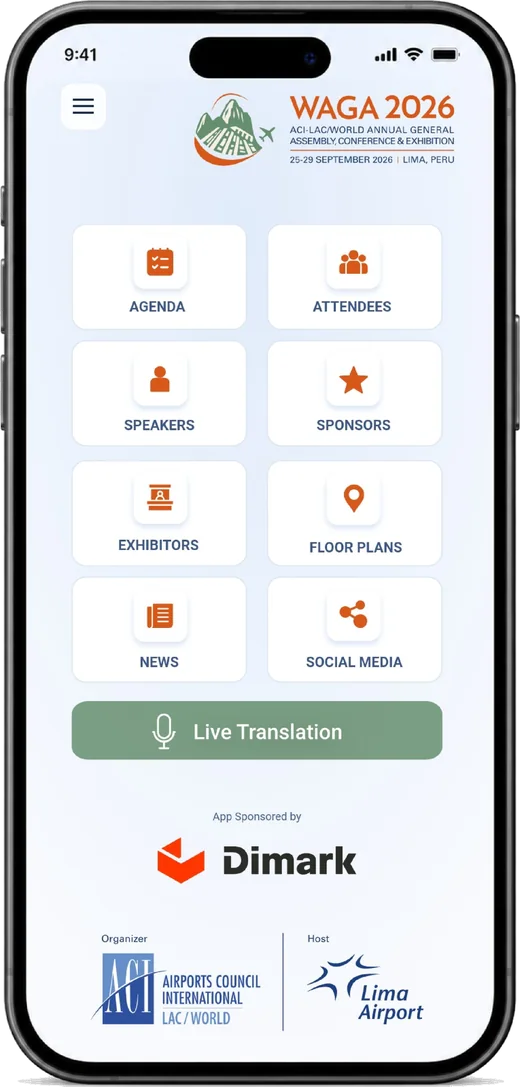
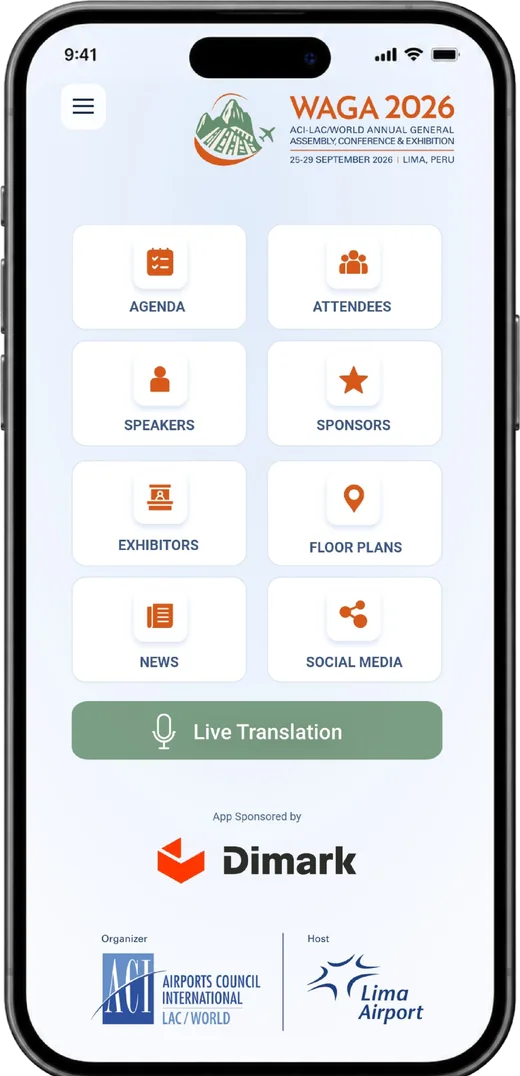
Celulares de Tech: se recorta la franja de sombra/reflejo del original en la base (optimize_images: cutbottom); proporción 520x1076 en HTML y CSS

diff --git a/mockup/es/tech-solutions.html b/mockup/es/tech-solutions.html
@@ -237,8 +237,8 @@
             <div class="showcase__bar"></div>
             <img src="../../assets/img/svc-web-alta.webp" width="720" height="962" alt="" loading="lazy" decoding="async">
           </div>
-          <span class="svc-phone showcase__phone showcase__phone--a" data-depth="0.7"><i class="svc-phone__screen"><img src="../../assets/img/svc-app-alta-home.webp" width="360" height="780" alt="" loading="lazy" decoding="async"></i><img class="svc-phone__frame" src="../../assets/img/svc-phone-frame.webp" width="520" height="1087" alt="" loading="lazy" decoding="async"></span>
-          <span class="svc-phone showcase__phone showcase__phone--b" data-depth="1"><img class="svc-phone__frame" src="../../assets/img/svc-app-waga.webp" width="520" height="1087" alt="" loading="lazy" decoding="async"></span>
+          <span class="svc-phone showcase__phone showcase__phone--a" data-depth="0.7"><i class="svc-phone__screen"><img src="../../assets/img/svc-app-alta-home.webp" width="360" height="780" alt="" loading="lazy" decoding="async"></i><img class="svc-phone__frame" src="../../assets/img/svc-phone-frame.webp" width="520" height="1076" alt="" loading="lazy" decoding="async"></span>
+          <span class="svc-phone showcase__phone showcase__phone--b" data-depth="1"><img class="svc-phone__frame" src="../../assets/img/svc-app-waga.webp" width="520" height="1076" alt="" loading="lazy" decoding="async"></span>
           <div class="showcase__chip" data-depth="1.4"><img src="../../assets/img/ibot-icon-clear.webp" width="300" height="300" alt="" loading="lazy" decoding="async"><span>¡Hola! ¿En qué te ayudo?</span></div>
         </div>
         <div class="showcase__foot reveal" data-d="2">
@@ -260,7 +260,7 @@
         </div>
         <div class="svc-cards">
           <article class="svc-card svc-card--bots reveal"><div class="svc-card__bg" aria-hidden="true"></div><img class="svc-card__mascot" src="../../assets/img/ibot-icon-clear.webp" width="300" height="300" alt="" loading="lazy" decoding="async"><h3>Bots y automatización</h3><div class="svc-card__body"><p>Asistentes que responden, califican y derivan, y automatizaciones que eliminan trabajo repetitivo.</p><ul class="svc-card__tags"><li>WhatsApp</li><li>Chat web</li><li>Derivación</li><li>Zapier</li></ul></div></article>
-          <article class="svc-card svc-card--apps reveal"><div class="svc-card__bg svc-phones" aria-hidden="true"><div class="svc-phones__stack"><span class="svc-phone svc-phone--1"><i class="svc-phone__screen"><img src="../../assets/img/svc-app-alta-home.webp" width="360" height="780" alt="" loading="lazy" decoding="async"></i><img class="svc-phone__frame" src="../../assets/img/svc-phone-frame.webp" width="520" height="1087" alt="" loading="lazy" decoding="async"></span><span class="svc-phone svc-phone--2"><i class="svc-phone__screen"><img src="../../assets/img/svc-app-alta-agenda.webp" width="360" height="780" alt="" loading="lazy" decoding="async"></i><img class="svc-phone__frame" src="../../assets/img/svc-phone-frame.webp" width="520" height="1087" alt="" loading="lazy" decoding="async"></span><span class="svc-phone svc-phone--3"><img class="svc-phone__frame" src="../../assets/img/svc-app-waga.webp" width="520" height="1087" alt="" loading="lazy" decoding="async"></span></div></div><h3>Apps de negocio</h3><div class="svc-card__body"><p>Apps a medida y herramientas internas construidas alrededor de cómo trabaja tu equipo.</p><ul class="svc-card__tags"><li>iOS y Android</li><li>Apps web</li><li>Paneles</li><li>Integraciones</li></ul></div></article>
+          <article class="svc-card svc-card--apps reveal"><div class="svc-card__bg svc-phones" aria-hidden="true"><div class="svc-phones__stack"><span class="svc-phone svc-phone--1"><i class="svc-phone__screen"><img src="../../assets/img/svc-app-alta-home.webp" width="360" height="780" alt="" loading="lazy" decoding="async"></i><img class="svc-phone__frame" src="../../assets/img/svc-phone-frame.webp" width="520" height="1076" alt="" loading="lazy" decoding="async"></span><span class="svc-phone svc-phone--2"><i class="svc-phone__screen"><img src="../../assets/img/svc-app-alta-agenda.webp" width="360" height="780" alt="" loading="lazy" decoding="async"></i><img class="svc-phone__frame" src="../../assets/img/svc-phone-frame.webp" width="520" height="1076" alt="" loading="lazy" decoding="async"></span><span class="svc-phone svc-phone--3"><img class="svc-phone__frame" src="../../assets/img/svc-app-waga.webp" width="520" height="1076" alt="" loading="lazy" decoding="async"></span></div></div><h3>Apps de negocio</h3><div class="svc-card__body"><p>Apps a medida y herramientas internas construidas alrededor de cómo trabaja tu equipo.</p><ul class="svc-card__tags"><li>iOS y Android</li><li>Apps web</li><li>Paneles</li><li>Integraciones</li></ul></div></article>
           <article class="svc-card svc-card--web svc-card--photo reveal"><img class="svc-card__bg" src="../../assets/img/svc-web-alta.webp" width="720" height="962" alt="" loading="lazy" decoding="async"><h3>Soluciones web</h3><div class="svc-card__body"><p>Sitios rápidos y claros, pensados para convertir y fáciles de mantener.</p><ul class="svc-card__tags"><li>Sitio de conferencia</li><li>EN / ES</li><li>Reserva de hotel</li><li>Registro de conferencia</li></ul></div></article>
           <article class="svc-card svc-card--events svc-card--photo reveal"><img class="svc-card__bg" src="../../assets/img/svc-event-conference.webp" width="640" height="1138" alt="" loading="lazy" decoding="async"><h3>Tecnología para eventos</h3><div class="svc-card__body"><p>La tecnología alrededor de tus eventos, del registro a los datos en vivo.</p><ul class="svc-card__tags"><li>Apps de evento</li><li>Check-in</li><li>Traducción en vivo</li><li>Checkpoints</li></ul></div></article>
         </div>

diff --git a/mockup/tech-solutions.html b/mockup/tech-solutions.html
@@ -237,8 +237,8 @@
             <div class="showcase__bar"></div>
             <img src="../assets/img/svc-web-alta.webp" width="720" height="962" alt="" loading="lazy" decoding="async">
           </div>
-          <span class="svc-phone showcase__phone showcase__phone--a" data-depth="0.7"><i class="svc-phone__screen"><img src="../assets/img/svc-app-alta-home.webp" width="360" height="780" alt="" loading="lazy" decoding="async"></i><img class="svc-phone__frame" src="../assets/img/svc-phone-frame.webp" width="520" height="1087" alt="" loading="lazy" decoding="async"></span>
-          <span class="svc-phone showcase__phone showcase__phone--b" data-depth="1"><img class="svc-phone__frame" src="../assets/img/svc-app-waga.webp" width="520" height="1087" alt="" loading="lazy" decoding="async"></span>
+          <span class="svc-phone showcase__phone showcase__phone--a" data-depth="0.7"><i class="svc-phone__screen"><img src="../assets/img/svc-app-alta-home.webp" width="360" height="780" alt="" loading="lazy" decoding="async"></i><img class="svc-phone__frame" src="../assets/img/svc-phone-frame.webp" width="520" height="1076" alt="" loading="lazy" decoding="async"></span>
+          <span class="svc-phone showcase__phone showcase__phone--b" data-depth="1"><img class="svc-phone__frame" src="../assets/img/svc-app-waga.webp" width="520" height="1076" alt="" loading="lazy" decoding="async"></span>
           <div class="showcase__chip" data-depth="1.4"><img src="../assets/img/ibot-icon-clear.webp" width="300" height="300" alt="" loading="lazy" decoding="async"><span>Hi! How can I help?</span></div>
         </div>
         <div class="showcase__foot reveal" data-d="2">
@@ -260,7 +260,7 @@
         </div>
         <div class="svc-cards">
           <article class="svc-card svc-card--bots reveal"><div class="svc-card__bg" aria-hidden="true"></div><img class="svc-card__mascot" src="../assets/img/ibot-icon-clear.webp" width="300" height="300" alt="" loading="lazy" decoding="async"><h3>Bot Assistant & Automation</h3><div class="svc-card__body"><p>Assistants that answer, qualify and route, and automations that remove repetitive work.</p><ul class="svc-card__tags"><li>WhatsApp</li><li>Web chat</li><li>Lead routing</li><li>Zapier</li></ul></div></article>
-          <article class="svc-card svc-card--apps reveal"><div class="svc-card__bg svc-phones" aria-hidden="true"><div class="svc-phones__stack"><span class="svc-phone svc-phone--1"><i class="svc-phone__screen"><img src="../assets/img/svc-app-alta-home.webp" width="360" height="780" alt="" loading="lazy" decoding="async"></i><img class="svc-phone__frame" src="../assets/img/svc-phone-frame.webp" width="520" height="1087" alt="" loading="lazy" decoding="async"></span><span class="svc-phone svc-phone--2"><i class="svc-phone__screen"><img src="../assets/img/svc-app-alta-agenda.webp" width="360" height="780" alt="" loading="lazy" decoding="async"></i><img class="svc-phone__frame" src="../assets/img/svc-phone-frame.webp" width="520" height="1087" alt="" loading="lazy" decoding="async"></span><span class="svc-phone svc-phone--3"><img class="svc-phone__frame" src="../assets/img/svc-app-waga.webp" width="520" height="1087" alt="" loading="lazy" decoding="async"></span></div></div><h3>Apps & Business Tools</h3><div class="svc-card__body"><p>Custom apps and internal tools built around how your team works.</p><ul class="svc-card__tags"><li>iOS & Android</li><li>Web apps</li><li>Dashboards</li><li>Integrations</li></ul></div></article>
+          <article class="svc-card svc-card--apps reveal"><div class="svc-card__bg svc-phones" aria-hidden="true"><div class="svc-phones__stack"><span class="svc-phone svc-phone--1"><i class="svc-phone__screen"><img src="../assets/img/svc-app-alta-home.webp" width="360" height="780" alt="" loading="lazy" decoding="async"></i><img class="svc-phone__frame" src="../assets/img/svc-phone-frame.webp" width="520" height="1076" alt="" loading="lazy" decoding="async"></span><span class="svc-phone svc-phone--2"><i class="svc-phone__screen"><img src="../assets/img/svc-app-alta-agenda.webp" width="360" height="780" alt="" loading="lazy" decoding="async"></i><img class="svc-phone__frame" src="../assets/img/svc-phone-frame.webp" width="520" height="1076" alt="" loading="lazy" decoding="async"></span><span class="svc-phone svc-phone--3"><img class="svc-phone__frame" src="../assets/img/svc-app-waga.webp" width="520" height="1076" alt="" loading="lazy" decoding="async"></span></div></div><h3>Apps & Business Tools</h3><div class="svc-card__body"><p>Custom apps and internal tools built around how your team works.</p><ul class="svc-card__tags"><li>iOS & Android</li><li>Web apps</li><li>Dashboards</li><li>Integrations</li></ul></div></article>
           <article class="svc-card svc-card--web svc-card--photo reveal"><img class="svc-card__bg" src="../assets/img/svc-web-alta.webp" width="720" height="962" alt="" loading="lazy" decoding="async"><h3>Web Solutions</h3><div class="svc-card__body"><p>Fast, clear websites designed to convert and easy to maintain.</p><ul class="svc-card__tags"><li>Conference website</li><li>EN / ES</li><li>Hotel booking tool</li><li>Conference register</li></ul></div></article>
           <article class="svc-card svc-card--events svc-card--photo reveal"><img class="svc-card__bg" src="../assets/img/svc-event-conference.webp" width="640" height="1138" alt="" loading="lazy" decoding="async"><h3>Event Tech Solutions</h3><div class="svc-card__body"><p>The technology around your events, from registration to live data.</p><ul class="svc-card__tags"><li>Event apps</li><li>Check-in</li><li>Live translation</li><li>Checkpoints</li></ul></div></article>
         </div>

diff --git a/assets/css/styles.css b/assets/css/styles.css
@@ -920,13 +920,13 @@ html:not(.js) .cycle__panel[hidden] { display: grid; }
 .svc-card--apps::after { background: linear-gradient(180deg, rgba(16,16,16,.35) 0%, rgba(16,16,16,0) 30%, rgba(16,16,16,.8) 100%); }
 .svc-phones__stack { --ph: 14.5rem; --top: 3.4rem; position: absolute; top: 0; bottom: 0; left: 50%; width: calc(var(--ph) * .478 + 7.2rem); transform: translateX(-50%);
   -webkit-mask-image: linear-gradient(180deg, #000 0, #000 45%, transparent 68%); mask-image: linear-gradient(180deg, #000 0, #000 45%, transparent 68%); } /* los teléfonos se desvanecen antes del texto de la caja */
-.svc-phone { position: absolute; height: var(--ph); aspect-ratio: 520 / 1087; filter: drop-shadow(-.6rem .9rem 1.1rem rgba(0,0,0,.5)); }
+.svc-phone { position: absolute; height: var(--ph); aspect-ratio: 520 / 1076; filter: drop-shadow(-.6rem .9rem 1.1rem rgba(0,0,0,.5)); }
 .svc-phone--1 { left: 0;      top: var(--top); }
 .svc-phone--2 { left: 3.6rem; top: calc(var(--top) + 1rem); }
 .svc-phone--3 { left: 7.2rem; top: calc(var(--top) + 2rem); }
 @media (min-width: 1100px) { .svc-phones__stack { --top: 6.4rem; } } /* en 4 columnas el título ocupa 3 líneas */
 .svc-phone__frame { position: relative; display: block; width: 100%; height: 100%; }
-.svc-phone__screen { position: absolute; inset: 1.8% 4.2% 1.9%; border-radius: 13.7% / 6.2%; }
+.svc-phone__screen { position: absolute; inset: 1.8% 4.2% .9%; border-radius: 13.7% / 6.2%; }
 .svc-phone__screen img { display: block; width: 100%; height: 100%; object-fit: cover; border-radius: inherit; }
 .svc-phone__screen::after { content: ""; position: absolute; inset: 0; border-radius: inherit; background: linear-gradient(115deg, rgba(255,255,255,.35) 0%, rgba(255,255,255,0) 38%, rgba(255,255,255,0) 62%, rgba(255,255,255,.12) 100%); }
 .svc-phone--1 .svc-phone__screen { background: linear-gradient(170deg, var(--lime) 0%, var(--cyan) 100%); }

diff --git a/scripts/optimize_images.py b/scripts/optimize_images.py
@@ -77,13 +77,13 @@ JOBS = {
     "svc-event-conference.webp": ("event-solution.jpeg",                    640, 80, {}),
     "svc-web-alta.webp":        ("screencapture-forum-alta-aero-2026-10-22-21_08_03.jpg", 720, 80, {}),
     # captura de la app de WAGA 2026 en un iPhone, recortada al teléfono y sin el fondo blanco (celular del frente en Tech Solutions)
-    "svc-app-waga.webp":    ("waga-app.jpg",                            520, 84, {"box": (380, 0, 1700, 2490), "clearbg": True, "trim": True}),
+    "svc-app-waga.webp":    ("waga-app.jpg",                            520, 84, {"box": (380, 0, 1700, 2490), "clearbg": True, "trim": True, "cutbottom": 11}),
     # el mismo iPhone con la pantalla vaciada (transparente, conserva la isla): detrás se pone un degradado en CSS.
     # coordenadas sobre la salida de 520 px: (izq, arriba, der, abajo, radio) de la pantalla y de la isla
     # capturas reales de la app de ALTA para las pantallas de los teléfonos de atrás (Tech Solutions)
     "svc-app-alta-home.webp":   ("agenda-forum-app.jpeg",               360, 82, {}),
     "svc-app-alta-agenda.webp": ("alta-app.jpeg",                       360, 82, {}),
-    "svc-phone-frame.webp": ("waga-app.jpg",                            520, 84, {"box": (380, 0, 1700, 2490), "clearbg": True, "trim": True,
+    "svc-phone-frame.webp": ("waga-app.jpg",                            520, 84, {"box": (380, 0, 1700, 2490), "clearbg": True, "trim": True, "cutbottom": 11,
                                                                                  "screenhole": {"screen": (26, 24, 494, 1062, 64), "island": (189, 37, 331, 77, 20)}}),
     "events-hero.webp":     ("alta-agm-opening-ceremony.jpg",           1800, 74, {"blur": EVENTS_BLUR}),
     # blur: logo de un tercero en la mochila (coordenadas del original de 2000x1333)
@@ -347,6 +347,8 @@ def main():
         if opts.get("trim"):
             im = im.crop(im.split()[3].getbbox())
         im = resize(im, width)
+        if opts.get("cutbottom"):  # filas finales (px de salida) con restos de sombra/reflejo del original
+            im = im.crop((0, 0, im.width, im.height - opts["cutbottom"]))
         if opts.get("screenhole"):
             im = punch_screen(im, **opts["screenhole"])
         has_alpha = src.suffix.lower() == ".png" or opts.get("clearbg", False) or opts.get("solid", False) or opts.get("unmatte", False)
